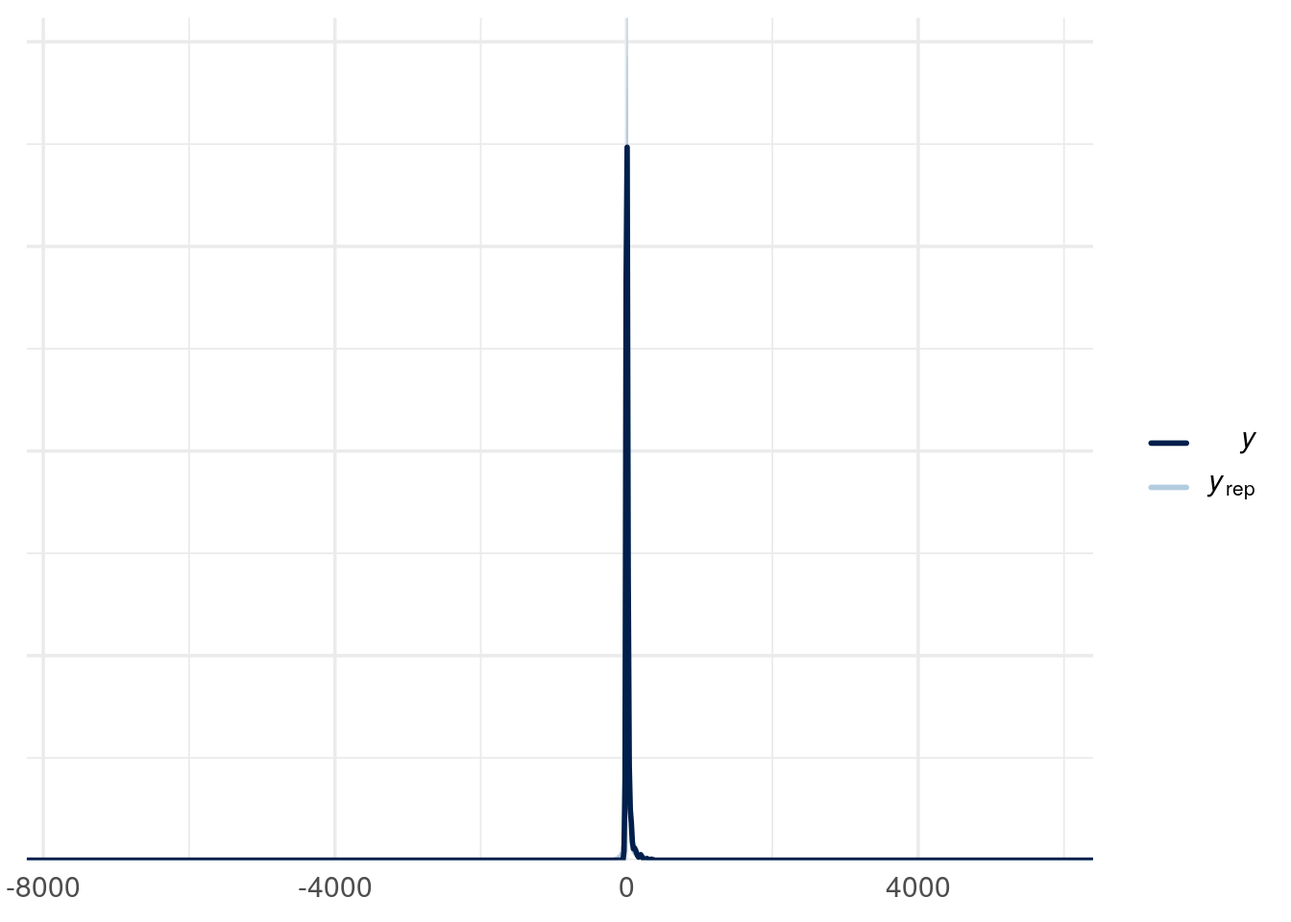
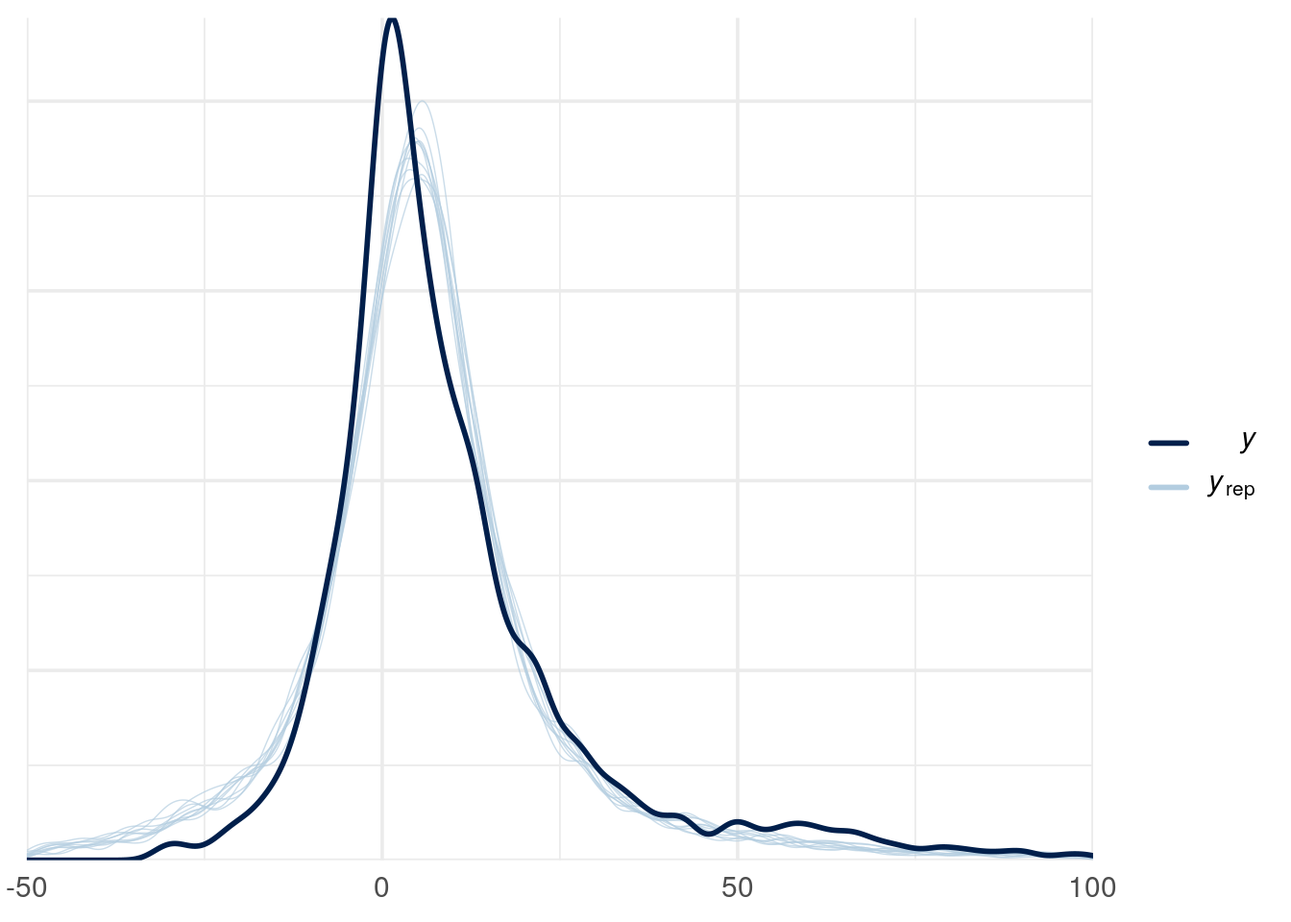
Main file fixes

Changed region(s): [[0.0, 0.0, 0.8438, 0.9688], [0.8438, 0.9375, 0.875, 0.9688]]

diff --git a/main.html b/main.html
@@ -130,17 +130,18 @@ code span.wa { color: #60a0b0; font-weight: bold; font-style: italic; } /* Warni
 </div>
 <p>Priors</p>
 <div class="cell">
-<div class="sourceCode cell-code" id="cb2"><pre class="sourceCode r code-with-copy"><code class="sourceCode r"><span id="cb2-1"><a href="#cb2-1" aria-hidden="true" tabindex="-1"></a>priors_pooled <span class="ot">=</span> <span class="fu">c</span>(</span>
+<div class="sourceCode cell-code" id="cb2"><pre class="sourceCode r code-with-copy"><code class="sourceCode r"><span id="cb2-1"><a href="#cb2-1" aria-hidden="true" tabindex="-1"></a>priors_pooled <span class="ot">&lt;-</span> <span class="fu">c</span>(</span>
 <span id="cb2-2"><a href="#cb2-2" aria-hidden="true" tabindex="-1"></a>  <span class="fu">set_prior</span>(<span class="st">"normal(0, 10)"</span>, <span class="at">class =</span> <span class="st">"b"</span>),</span>
 <span id="cb2-3"><a href="#cb2-3" aria-hidden="true" tabindex="-1"></a>  <span class="fu">set_prior</span>(<span class="st">"normal(0, 5)"</span>, <span class="at">class =</span> <span class="st">"Intercept"</span>),</span>
 <span id="cb2-4"><a href="#cb2-4" aria-hidden="true" tabindex="-1"></a>  <span class="fu">set_prior</span>(<span class="st">"gamma(2, 0.1)"</span>, <span class="at">class =</span> <span class="st">"nu"</span>) <span class="co"># Correct prior for degrees of freedom in Student's t</span></span>
 <span id="cb2-5"><a href="#cb2-5" aria-hidden="true" tabindex="-1"></a>)</span>
-<span id="cb2-6"><a href="#cb2-6" aria-hidden="true" tabindex="-1"></a>priors_hierarchical <span class="ot">=</span>  <span class="fu">c</span>(</span>
-<span id="cb2-7"><a href="#cb2-7" aria-hidden="true" tabindex="-1"></a>  <span class="fu">set_prior</span>(<span class="st">"normal(0, 10)"</span>, <span class="at">class =</span> <span class="st">"b"</span>),</span>
-<span id="cb2-8"><a href="#cb2-8" aria-hidden="true" tabindex="-1"></a>  <span class="fu">set_prior</span>(<span class="st">"normal(0, 5)"</span>, <span class="at">class =</span> <span class="st">"Intercept"</span>),</span>
-<span id="cb2-9"><a href="#cb2-9" aria-hidden="true" tabindex="-1"></a>  <span class="fu">set_prior</span>(<span class="st">"gamma(2, 0.1)"</span>, <span class="at">class =</span> <span class="st">"nu"</span>), <span class="co"># Correct prior for degrees of freedom in Student's t</span></span>
-<span id="cb2-10"><a href="#cb2-10" aria-hidden="true" tabindex="-1"></a>  <span class="fu">set_prior</span>(<span class="st">"lkj(2)"</span>, <span class="at">class =</span> <span class="st">"cor"</span>) <span class="co"># LKJ prior for the correlation matrix of the group-level effects</span></span>
-<span id="cb2-11"><a href="#cb2-11" aria-hidden="true" tabindex="-1"></a>)</span></code><button title="Copy to Clipboard" class="code-copy-button"><i class="bi"></i></button></pre></div>
+<span id="cb2-6"><a href="#cb2-6" aria-hidden="true" tabindex="-1"></a></span>
+<span id="cb2-7"><a href="#cb2-7" aria-hidden="true" tabindex="-1"></a>priors_hierarchical <span class="ot">&lt;-</span>  <span class="fu">c</span>(</span>
+<span id="cb2-8"><a href="#cb2-8" aria-hidden="true" tabindex="-1"></a>  <span class="fu">set_prior</span>(<span class="st">"normal(0, 10)"</span>, <span class="at">class =</span> <span class="st">"b"</span>),</span>
+<span id="cb2-9"><a href="#cb2-9" aria-hidden="true" tabindex="-1"></a>  <span class="fu">set_prior</span>(<span class="st">"normal(0, 5)"</span>, <span class="at">class =</span> <span class="st">"Intercept"</span>),</span>
+<span id="cb2-10"><a href="#cb2-10" aria-hidden="true" tabindex="-1"></a>  <span class="fu">set_prior</span>(<span class="st">"gamma(2, 0.1)"</span>, <span class="at">class =</span> <span class="st">"nu"</span>), <span class="co"># Correct prior for degrees of freedom in Student's t</span></span>
+<span id="cb2-11"><a href="#cb2-11" aria-hidden="true" tabindex="-1"></a>  <span class="fu">set_prior</span>(<span class="st">"lkj(2)"</span>, <span class="at">class =</span> <span class="st">"cor"</span>) <span class="co"># LKJ prior for the correlation matrix of the group-level effects</span></span>
+<span id="cb2-12"><a href="#cb2-12" aria-hidden="true" tabindex="-1"></a>)</span></code><button title="Copy to Clipboard" class="code-copy-button"><i class="bi"></i></button></pre></div>
 </div>
 <p>Pooled model</p>
 <div class="cell">
@@ -152,7 +153,7 @@ code span.wa { color: #60a0b0; font-weight: bold; font-style: italic; } /* Warni
 <span id="cb3-6"><a href="#cb3-6" aria-hidden="true" tabindex="-1"></a>  <span class="co"># This specifies the observation model family</span></span>
 <span id="cb3-7"><a href="#cb3-7" aria-hidden="true" tabindex="-1"></a>  <span class="at">family =</span> student,</span>
 <span id="cb3-8"><a href="#cb3-8" aria-hidden="true" tabindex="-1"></a>  <span class="co"># This passes the priors specified above to brms</span></span>
-<span id="cb3-9"><a href="#cb3-9" aria-hidden="true" tabindex="-1"></a>  <span class="at">prior =</span> priors_pooled,</span>
+<span id="cb3-9"><a href="#cb3-9" aria-hidden="true" tabindex="-1"></a>  <span class="co">#prior = priors_pooled,</span></span>
 <span id="cb3-10"><a href="#cb3-10" aria-hidden="true" tabindex="-1"></a>  <span class="co"># This causes brms to cache the results</span></span>
 <span id="cb3-11"><a href="#cb3-11" aria-hidden="true" tabindex="-1"></a>  <span class="at">file =</span> <span class="st">"models/pooled"</span></span>
 <span id="cb3-12"><a href="#cb3-12" aria-hidden="true" tabindex="-1"></a>)</span>
@@ -301,74 +302,80 @@ scale reduction factor on split chains (at convergence, Rhat = 1).</code></pre>
 </div>
 <p>Posterior predictive checks</p>
 <div class="cell">
-<div class="sourceCode cell-code" id="cb13"><pre class="sourceCode r code-with-copy"><code class="sourceCode r"><span id="cb13-1"><a href="#cb13-1" aria-hidden="true" tabindex="-1"></a><span class="fu">pp_check</span>(pooled_model)</span></code><button title="Copy to Clipboard" class="code-copy-button"><i class="bi"></i></button></pre></div>
+<div class="sourceCode cell-code" id="cb13"><pre class="sourceCode r code-with-copy"><code class="sourceCode r"><span id="cb13-1"><a href="#cb13-1" aria-hidden="true" tabindex="-1"></a><span class="fu">pp_check</span>(pooled_model) <span class="sc">+</span> <span class="fu">xlim</span>(<span class="sc">-</span><span class="dv">50</span>, <span class="dv">100</span>)</span></code><button title="Copy to Clipboard" class="code-copy-button"><i class="bi"></i></button></pre></div>
 <div class="cell-output cell-output-stderr">
 <pre><code>Using 10 posterior draws for ppc type 'dens_overlay' by default.</code></pre>
+</div>
+<div class="cell-output cell-output-stderr">
+<pre><code>Warning: Removed 2022 rows containing non-finite values (`stat_density()`).</code></pre>
+</div>
+<div class="cell-output cell-output-stderr">
+<pre><code>Warning: Removed 148 rows containing non-finite values (`stat_density()`).</code></pre>
 </div>
 <div class="cell-output-display">
 <p><img src="main_files/figure-html/unnamed-chunk-6-1.png" class="img-fluid" width="672"></p>
 </div>
-<div class="sourceCode cell-code" id="cb15"><pre class="sourceCode r code-with-copy"><code class="sourceCode r"><span id="cb15-1"><a href="#cb15-1" aria-hidden="true" tabindex="-1"></a><span class="fu">pp_check</span>(hierarchical_model)</span></code><button title="Copy to Clipboard" class="code-copy-button"><i class="bi"></i></button></pre></div>
+<div class="sourceCode cell-code" id="cb17"><pre class="sourceCode r code-with-copy"><code class="sourceCode r"><span id="cb17-1"><a href="#cb17-1" aria-hidden="true" tabindex="-1"></a><span class="fu">pp_check</span>(hierarchical_model) <span class="sc">+</span> <span class="fu">xlim</span>(<span class="sc">-</span><span class="dv">50</span>, <span class="dv">100</span>)</span></code><button title="Copy to Clipboard" class="code-copy-button"><i class="bi"></i></button></pre></div>
 <div class="cell-output cell-output-stderr">
 <pre><code>Using 10 posterior draws for ppc type 'dens_overlay' by default.</code></pre>
+</div>
+<div class="cell-output cell-output-stderr">
+<pre><code>Warning: Removed 1951 rows containing non-finite values (`stat_density()`).
+Removed 148 rows containing non-finite values (`stat_density()`).</code></pre>
 </div>
 <div class="cell-output-display">
 <p><img src="main_files/figure-html/unnamed-chunk-6-2.png" class="img-fluid" width="672"></p>
 </div>
 </div>
-<div class="cell">
-<div class="sourceCode cell-code" id="cb17"><pre class="sourceCode r code-with-copy"><code class="sourceCode r"><span id="cb17-1"><a href="#cb17-1" aria-hidden="true" tabindex="-1"></a><span class="co">#pp_check(pooled_model, type="intervals_grouped", group="country")</span></span>
-<span id="cb17-2"><a href="#cb17-2" aria-hidden="true" tabindex="-1"></a><span class="co">#pp_check(hierarchical_model, type="intervals_grouped", group="country")</span></span></code><button title="Copy to Clipboard" class="code-copy-button"><i class="bi"></i></button></pre></div>
-</div>
 <p>Predictive performance assessment</p>
 <p>Sensitivity analysis</p>
 <div class="cell">
-<div class="sourceCode cell-code" id="cb18"><pre class="sourceCode r code-with-copy"><code class="sourceCode r"><span id="cb18-1"><a href="#cb18-1" aria-hidden="true" tabindex="-1"></a><span class="co"># Stronger priors for the pooled model</span></span>
-<span id="cb18-2"><a href="#cb18-2" aria-hidden="true" tabindex="-1"></a>priors_pooled_2 <span class="ot">&lt;-</span> <span class="fu">c</span>(</span>
-<span id="cb18-3"><a href="#cb18-3" aria-hidden="true" tabindex="-1"></a>  <span class="fu">set_prior</span>(<span class="st">"normal(0, 2.5)"</span>, <span class="at">class =</span> <span class="st">"b"</span>),</span>
-<span id="cb18-4"><a href="#cb18-4" aria-hidden="true" tabindex="-1"></a>  <span class="fu">set_prior</span>(<span class="st">"normal(0, 1)"</span>, <span class="at">class =</span> <span class="st">"Intercept"</span>),</span>
-<span id="cb18-5"><a href="#cb18-5" aria-hidden="true" tabindex="-1"></a>  <span class="fu">set_prior</span>(<span class="st">"gamma(2, 0.1)"</span>, <span class="at">class =</span> <span class="st">"nu"</span>) <span class="co"># Assuming degrees of freedom to allow some robustness to outliers</span></span>
-<span id="cb18-6"><a href="#cb18-6" aria-hidden="true" tabindex="-1"></a>)</span>
-<span id="cb18-7"><a href="#cb18-7" aria-hidden="true" tabindex="-1"></a></span>
-<span id="cb18-8"><a href="#cb18-8" aria-hidden="true" tabindex="-1"></a><span class="co"># Stronger priors for the hierarchical model</span></span>
-<span id="cb18-9"><a href="#cb18-9" aria-hidden="true" tabindex="-1"></a>priors_hierarchical_2 <span class="ot">&lt;-</span> <span class="fu">c</span>(</span>
-<span id="cb18-10"><a href="#cb18-10" aria-hidden="true" tabindex="-1"></a>  <span class="fu">set_prior</span>(<span class="st">"normal(0, 2.5)"</span>, <span class="at">class =</span> <span class="st">"b"</span>),</span>
-<span id="cb18-11"><a href="#cb18-11" aria-hidden="true" tabindex="-1"></a>  <span class="fu">set_prior</span>(<span class="st">"normal(0, 1)"</span>, <span class="at">class =</span> <span class="st">"Intercept"</span>),</span>
-<span id="cb18-12"><a href="#cb18-12" aria-hidden="true" tabindex="-1"></a>  <span class="fu">set_prior</span>(<span class="st">"gamma(2, 0.1)"</span>, <span class="at">class =</span> <span class="st">"nu"</span>),</span>
-<span id="cb18-13"><a href="#cb18-13" aria-hidden="true" tabindex="-1"></a>  <span class="fu">set_prior</span>(<span class="st">"lkj(2)"</span>, <span class="at">class =</span> <span class="st">"cor"</span>), <span class="co"># LKJ prior for the correlation matrix of the group-level effects</span></span>
-<span id="cb18-14"><a href="#cb18-14" aria-hidden="true" tabindex="-1"></a>  <span class="fu">set_prior</span>(<span class="st">"normal(0, 2.5)"</span>, <span class="at">class =</span> <span class="st">"sd"</span>), <span class="co"># Stronger prior for the standard deviation of group-level effects</span></span>
-<span id="cb18-15"><a href="#cb18-15" aria-hidden="true" tabindex="-1"></a>  <span class="fu">set_prior</span>(<span class="st">"normal(0, 1)"</span>, <span class="at">class =</span> <span class="st">"sd"</span>, <span class="at">group =</span> <span class="st">"country"</span>) <span class="co"># Strong prior for the random intercepts standard deviation for country</span></span>
-<span id="cb18-16"><a href="#cb18-16" aria-hidden="true" tabindex="-1"></a>)</span>
-<span id="cb18-17"><a href="#cb18-17" aria-hidden="true" tabindex="-1"></a></span>
-<span id="cb18-18"><a href="#cb18-18" aria-hidden="true" tabindex="-1"></a></span>
-<span id="cb18-19"><a href="#cb18-19" aria-hidden="true" tabindex="-1"></a>pooled_model_2 <span class="ot">&lt;-</span> brms<span class="sc">::</span><span class="fu">brm</span>(</span>
-<span id="cb18-20"><a href="#cb18-20" aria-hidden="true" tabindex="-1"></a>  <span class="co"># This specifies the formula</span></span>
-<span id="cb18-21"><a href="#cb18-21" aria-hidden="true" tabindex="-1"></a>  Inflation <span class="sc">~</span> Close,</span>
-<span id="cb18-22"><a href="#cb18-22" aria-hidden="true" tabindex="-1"></a>  <span class="co"># This specifies the dataset</span></span>
-<span id="cb18-23"><a href="#cb18-23" aria-hidden="true" tabindex="-1"></a>  <span class="at">data =</span> inflation_data,</span>
-<span id="cb18-24"><a href="#cb18-24" aria-hidden="true" tabindex="-1"></a>  <span class="co"># This specifies the observation model family</span></span>
-<span id="cb18-25"><a href="#cb18-25" aria-hidden="true" tabindex="-1"></a>  <span class="at">family =</span> student,</span>
-<span id="cb18-26"><a href="#cb18-26" aria-hidden="true" tabindex="-1"></a>  <span class="co"># This passes the priors specified above to brms</span></span>
-<span id="cb18-27"><a href="#cb18-27" aria-hidden="true" tabindex="-1"></a>  <span class="at">prior =</span> priors_pooled_2,</span>
-<span id="cb18-28"><a href="#cb18-28" aria-hidden="true" tabindex="-1"></a>  <span class="co"># This causes brms to cache the results</span></span>
-<span id="cb18-29"><a href="#cb18-29" aria-hidden="true" tabindex="-1"></a>  <span class="at">file =</span> <span class="st">"models/pooled_2"</span></span>
-<span id="cb18-30"><a href="#cb18-30" aria-hidden="true" tabindex="-1"></a>)</span>
-<span id="cb18-31"><a href="#cb18-31" aria-hidden="true" tabindex="-1"></a></span>
-<span id="cb18-32"><a href="#cb18-32" aria-hidden="true" tabindex="-1"></a>hierarchical_model_2 <span class="ot">&lt;-</span> brms<span class="sc">::</span><span class="fu">brm</span>(</span>
-<span id="cb18-33"><a href="#cb18-33" aria-hidden="true" tabindex="-1"></a>  <span class="co"># This specifies the formula</span></span>
-<span id="cb18-34"><a href="#cb18-34" aria-hidden="true" tabindex="-1"></a>  Inflation <span class="sc">~</span> Close <span class="sc">+</span> (<span class="dv">1</span> <span class="sc">+</span> Close <span class="sc">|</span> country),</span>
-<span id="cb18-35"><a href="#cb18-35" aria-hidden="true" tabindex="-1"></a>  <span class="co"># This specifies the dataset</span></span>
-<span id="cb18-36"><a href="#cb18-36" aria-hidden="true" tabindex="-1"></a>  <span class="at">data =</span> inflation_data,</span>
-<span id="cb18-37"><a href="#cb18-37" aria-hidden="true" tabindex="-1"></a>  <span class="co"># This specifies the observation model family</span></span>
-<span id="cb18-38"><a href="#cb18-38" aria-hidden="true" tabindex="-1"></a>  <span class="at">family =</span> student,</span>
-<span id="cb18-39"><a href="#cb18-39" aria-hidden="true" tabindex="-1"></a>  <span class="co"># This passes the priors specified above to brms</span></span>
-<span id="cb18-40"><a href="#cb18-40" aria-hidden="true" tabindex="-1"></a>  <span class="at">prior =</span> priors_hierarchical_2,</span>
-<span id="cb18-41"><a href="#cb18-41" aria-hidden="true" tabindex="-1"></a>  <span class="co"># This causes brms to cache the results</span></span>
-<span id="cb18-42"><a href="#cb18-42" aria-hidden="true" tabindex="-1"></a>  <span class="at">file =</span> <span class="st">"models/hierarchical_2"</span></span>
-<span id="cb18-43"><a href="#cb18-43" aria-hidden="true" tabindex="-1"></a>)</span></code><button title="Copy to Clipboard" class="code-copy-button"><i class="bi"></i></button></pre></div>
+<div class="sourceCode cell-code" id="cb20"><pre class="sourceCode r code-with-copy"><code class="sourceCode r"><span id="cb20-1"><a href="#cb20-1" aria-hidden="true" tabindex="-1"></a><span class="co"># Stronger priors for the pooled model</span></span>
+<span id="cb20-2"><a href="#cb20-2" aria-hidden="true" tabindex="-1"></a>priors_pooled_2 <span class="ot">&lt;-</span> <span class="fu">c</span>(</span>
+<span id="cb20-3"><a href="#cb20-3" aria-hidden="true" tabindex="-1"></a>  <span class="fu">set_prior</span>(<span class="st">"normal(0, 2.5)"</span>, <span class="at">class =</span> <span class="st">"b"</span>),</span>
+<span id="cb20-4"><a href="#cb20-4" aria-hidden="true" tabindex="-1"></a>  <span class="fu">set_prior</span>(<span class="st">"normal(0, 1)"</span>, <span class="at">class =</span> <span class="st">"Intercept"</span>),</span>
+<span id="cb20-5"><a href="#cb20-5" aria-hidden="true" tabindex="-1"></a>  <span class="fu">set_prior</span>(<span class="st">"gamma(2, 0.1)"</span>, <span class="at">class =</span> <span class="st">"nu"</span>) <span class="co"># Assuming degrees of freedom to allow some robustness to outliers</span></span>
+<span id="cb20-6"><a href="#cb20-6" aria-hidden="true" tabindex="-1"></a>)</span>
+<span id="cb20-7"><a href="#cb20-7" aria-hidden="true" tabindex="-1"></a></span>
+<span id="cb20-8"><a href="#cb20-8" aria-hidden="true" tabindex="-1"></a><span class="co"># Stronger priors for the hierarchical model</span></span>
+<span id="cb20-9"><a href="#cb20-9" aria-hidden="true" tabindex="-1"></a>priors_hierarchical_2 <span class="ot">&lt;-</span> <span class="fu">c</span>(</span>
+<span id="cb20-10"><a href="#cb20-10" aria-hidden="true" tabindex="-1"></a>  <span class="fu">set_prior</span>(<span class="st">"normal(0, 2.5)"</span>, <span class="at">class =</span> <span class="st">"b"</span>),</span>
+<span id="cb20-11"><a href="#cb20-11" aria-hidden="true" tabindex="-1"></a>  <span class="fu">set_prior</span>(<span class="st">"normal(0, 1)"</span>, <span class="at">class =</span> <span class="st">"Intercept"</span>),</span>
+<span id="cb20-12"><a href="#cb20-12" aria-hidden="true" tabindex="-1"></a>  <span class="fu">set_prior</span>(<span class="st">"gamma(2, 0.1)"</span>, <span class="at">class =</span> <span class="st">"nu"</span>),</span>
+<span id="cb20-13"><a href="#cb20-13" aria-hidden="true" tabindex="-1"></a>  <span class="fu">set_prior</span>(<span class="st">"lkj(2)"</span>, <span class="at">class =</span> <span class="st">"cor"</span>), <span class="co"># LKJ prior for the correlation matrix of the group-level effects</span></span>
+<span id="cb20-14"><a href="#cb20-14" aria-hidden="true" tabindex="-1"></a>  <span class="fu">set_prior</span>(<span class="st">"normal(0, 2.5)"</span>, <span class="at">class =</span> <span class="st">"sd"</span>), <span class="co"># Stronger prior for the standard deviation of group-level effects</span></span>
+<span id="cb20-15"><a href="#cb20-15" aria-hidden="true" tabindex="-1"></a>  <span class="fu">set_prior</span>(<span class="st">"normal(0, 1)"</span>, <span class="at">class =</span> <span class="st">"sd"</span>, <span class="at">group =</span> <span class="st">"country"</span>) <span class="co"># Strong prior for the random intercepts standard deviation for country</span></span>
+<span id="cb20-16"><a href="#cb20-16" aria-hidden="true" tabindex="-1"></a>)</span>
+<span id="cb20-17"><a href="#cb20-17" aria-hidden="true" tabindex="-1"></a></span>
+<span id="cb20-18"><a href="#cb20-18" aria-hidden="true" tabindex="-1"></a></span>
+<span id="cb20-19"><a href="#cb20-19" aria-hidden="true" tabindex="-1"></a>pooled_model_2 <span class="ot">&lt;-</span> brms<span class="sc">::</span><span class="fu">brm</span>(</span>
+<span id="cb20-20"><a href="#cb20-20" aria-hidden="true" tabindex="-1"></a>  <span class="co"># This specifies the formula</span></span>
+<span id="cb20-21"><a href="#cb20-21" aria-hidden="true" tabindex="-1"></a>  Inflation <span class="sc">~</span> Close,</span>
+<span id="cb20-22"><a href="#cb20-22" aria-hidden="true" tabindex="-1"></a>  <span class="co"># This specifies the dataset</span></span>
+<span id="cb20-23"><a href="#cb20-23" aria-hidden="true" tabindex="-1"></a>  <span class="at">data =</span> inflation_data,</span>
+<span id="cb20-24"><a href="#cb20-24" aria-hidden="true" tabindex="-1"></a>  <span class="co"># This specifies the observation model family</span></span>
+<span id="cb20-25"><a href="#cb20-25" aria-hidden="true" tabindex="-1"></a>  <span class="at">family =</span> student,</span>
+<span id="cb20-26"><a href="#cb20-26" aria-hidden="true" tabindex="-1"></a>  <span class="co"># This passes the priors specified above to brms</span></span>
+<span id="cb20-27"><a href="#cb20-27" aria-hidden="true" tabindex="-1"></a>  <span class="at">prior =</span> priors_pooled_2,</span>
+<span id="cb20-28"><a href="#cb20-28" aria-hidden="true" tabindex="-1"></a>  <span class="co"># This causes brms to cache the results</span></span>
+<span id="cb20-29"><a href="#cb20-29" aria-hidden="true" tabindex="-1"></a>  <span class="at">file =</span> <span class="st">"models/pooled_2"</span></span>
+<span id="cb20-30"><a href="#cb20-30" aria-hidden="true" tabindex="-1"></a>)</span>
+<span id="cb20-31"><a href="#cb20-31" aria-hidden="true" tabindex="-1"></a></span>
+<span id="cb20-32"><a href="#cb20-32" aria-hidden="true" tabindex="-1"></a>hierarchical_model_2 <span class="ot">&lt;-</span> brms<span class="sc">::</span><span class="fu">brm</span>(</span>
+<span id="cb20-33"><a href="#cb20-33" aria-hidden="true" tabindex="-1"></a>  <span class="co"># This specifies the formula</span></span>
+<span id="cb20-34"><a href="#cb20-34" aria-hidden="true" tabindex="-1"></a>  Inflation <span class="sc">~</span> Close <span class="sc">+</span> (<span class="dv">1</span> <span class="sc">+</span> Close <span class="sc">|</span> country),</span>
+<span id="cb20-35"><a href="#cb20-35" aria-hidden="true" tabindex="-1"></a>  <span class="co"># This specifies the dataset</span></span>
+<span id="cb20-36"><a href="#cb20-36" aria-hidden="true" tabindex="-1"></a>  <span class="at">data =</span> inflation_data,</span>
+<span id="cb20-37"><a href="#cb20-37" aria-hidden="true" tabindex="-1"></a>  <span class="co"># This specifies the observation model family</span></span>
+<span id="cb20-38"><a href="#cb20-38" aria-hidden="true" tabindex="-1"></a>  <span class="at">family =</span> student,</span>
+<span id="cb20-39"><a href="#cb20-39" aria-hidden="true" tabindex="-1"></a>  <span class="co"># This passes the priors specified above to brms</span></span>
+<span id="cb20-40"><a href="#cb20-40" aria-hidden="true" tabindex="-1"></a>  <span class="at">prior =</span> priors_hierarchical_2,</span>
+<span id="cb20-41"><a href="#cb20-41" aria-hidden="true" tabindex="-1"></a>  <span class="co"># This causes brms to cache the results</span></span>
+<span id="cb20-42"><a href="#cb20-42" aria-hidden="true" tabindex="-1"></a>  <span class="at">file =</span> <span class="st">"models/hierarchical_2"</span></span>
+<span id="cb20-43"><a href="#cb20-43" aria-hidden="true" tabindex="-1"></a>)</span></code><button title="Copy to Clipboard" class="code-copy-button"><i class="bi"></i></button></pre></div>
 </div>
 <div class="cell">
-<div class="sourceCode cell-code" id="cb19"><pre class="sourceCode r code-with-copy"><code class="sourceCode r"><span id="cb19-1"><a href="#cb19-1" aria-hidden="true" tabindex="-1"></a>pooled_model_2</span></code><button title="Copy to Clipboard" class="code-copy-button"><i class="bi"></i></button></pre></div>
+<div class="sourceCode cell-code" id="cb21"><pre class="sourceCode r code-with-copy"><code class="sourceCode r"><span id="cb21-1"><a href="#cb21-1" aria-hidden="true" tabindex="-1"></a>pooled_model_2</span></code><button title="Copy to Clipboard" class="code-copy-button"><i class="bi"></i></button></pre></div>
 <div class="cell-output cell-output-stdout">
 <pre><code> Family: student 
   Links: mu = identity; sigma = identity; nu = identity 
@@ -391,7 +398,7 @@ Draws were sampled using sampling(NUTS). For each parameter, Bulk_ESS
 and Tail_ESS are effective sample size measures, and Rhat is the potential
 scale reduction factor on split chains (at convergence, Rhat = 1).</code></pre>
 </div>
-<div class="sourceCode cell-code" id="cb21"><pre class="sourceCode r code-with-copy"><code class="sourceCode r"><span id="cb21-1"><a href="#cb21-1" aria-hidden="true" tabindex="-1"></a>hierarchical_model_2</span></code><button title="Copy to Clipboard" class="code-copy-button"><i class="bi"></i></button></pre></div>
+<div class="sourceCode cell-code" id="cb23"><pre class="sourceCode r code-with-copy"><code class="sourceCode r"><span id="cb23-1"><a href="#cb23-1" aria-hidden="true" tabindex="-1"></a>hierarchical_model_2</span></code><button title="Copy to Clipboard" class="code-copy-button"><i class="bi"></i></button></pre></div>
 <div class="cell-output cell-output-stdout">
 <pre><code> Family: student 
   Links: mu = identity; sigma = identity; nu = identity 
@@ -425,7 +432,7 @@ Draws were sampled using sampling(NUTS). For each parameter, Bulk_ESS
 and Tail_ESS are effective sample size measures, and Rhat is the potential
 scale reduction factor on split chains (at convergence, Rhat = 1).</code></pre>
 </div>
-<div class="sourceCode cell-code" id="cb23"><pre class="sourceCode r code-with-copy"><code class="sourceCode r"><span id="cb23-1"><a href="#cb23-1" aria-hidden="true" tabindex="-1"></a><span class="fu">summary</span>(pooled_model_2)</span></code><button title="Copy to Clipboard" class="code-copy-button"><i class="bi"></i></button></pre></div>
+<div class="sourceCode cell-code" id="cb25"><pre class="sourceCode r code-with-copy"><code class="sourceCode r"><span id="cb25-1"><a href="#cb25-1" aria-hidden="true" tabindex="-1"></a><span class="fu">summary</span>(pooled_model_2)</span></code><button title="Copy to Clipboard" class="code-copy-button"><i class="bi"></i></button></pre></div>
 <div class="cell-output cell-output-stdout">
 <pre><code> Family: student 
   Links: mu = identity; sigma = identity; nu = identity 
@@ -448,7 +455,7 @@ Draws were sampled using sampling(NUTS). For each parameter, Bulk_ESS
 and Tail_ESS are effective sample size measures, and Rhat is the potential
 scale reduction factor on split chains (at convergence, Rhat = 1).</code></pre>
 </div>
-<div class="sourceCode cell-code" id="cb25"><pre class="sourceCode r code-with-copy"><code class="sourceCode r"><span id="cb25-1"><a href="#cb25-1" aria-hidden="true" tabindex="-1"></a><span class="fu">summary</span>(hierarchical_model_2)</span></code><button title="Copy to Clipboard" class="code-copy-button"><i class="bi"></i></button></pre></div>
+<div class="sourceCode cell-code" id="cb27"><pre class="sourceCode r code-with-copy"><code class="sourceCode r"><span id="cb27-1"><a href="#cb27-1" aria-hidden="true" tabindex="-1"></a><span class="fu">summary</span>(hierarchical_model_2)</span></code><button title="Copy to Clipboard" class="code-copy-button"><i class="bi"></i></button></pre></div>
 <div class="cell-output cell-output-stdout">
 <pre><code> Family: student 
   Links: mu = identity; sigma = identity; nu = identity 
@@ -482,30 +489,38 @@ Draws were sampled using sampling(NUTS). For each parameter, Bulk_ESS
 and Tail_ESS are effective sample size measures, and Rhat is the potential
 scale reduction factor on split chains (at convergence, Rhat = 1).</code></pre>
 </div>
-<div class="sourceCode cell-code" id="cb27"><pre class="sourceCode r code-with-copy"><code class="sourceCode r"><span id="cb27-1"><a href="#cb27-1" aria-hidden="true" tabindex="-1"></a><span class="fu">pp_check</span>(pooled_model_2)</span></code><button title="Copy to Clipboard" class="code-copy-button"><i class="bi"></i></button></pre></div>
+<div class="sourceCode cell-code" id="cb29"><pre class="sourceCode r code-with-copy"><code class="sourceCode r"><span id="cb29-1"><a href="#cb29-1" aria-hidden="true" tabindex="-1"></a><span class="fu">pp_check</span>(pooled_model_2) <span class="sc">+</span> <span class="fu">xlim</span>(<span class="sc">-</span><span class="dv">50</span>, <span class="dv">100</span>)</span></code><button title="Copy to Clipboard" class="code-copy-button"><i class="bi"></i></button></pre></div>
 <div class="cell-output cell-output-stderr">
 <pre><code>Using 10 posterior draws for ppc type 'dens_overlay' by default.</code></pre>
 </div>
-<div class="cell-output-display">
-<p><img src="main_files/figure-html/unnamed-chunk-10-1.png" class="img-fluid" width="672"></p>
+<div class="cell-output cell-output-stderr">
+<pre><code>Warning: Removed 2003 rows containing non-finite values (`stat_density()`).</code></pre>
 </div>
-<div class="sourceCode cell-code" id="cb29"><pre class="sourceCode r code-with-copy"><code class="sourceCode r"><span id="cb29-1"><a href="#cb29-1" aria-hidden="true" tabindex="-1"></a><span class="fu">pp_check</span>(hierarchical_model_2)</span></code><button title="Copy to Clipboard" class="code-copy-button"><i class="bi"></i></button></pre></div>
+<div class="cell-output cell-output-stderr">
+<pre><code>Warning: Removed 148 rows containing non-finite values (`stat_density()`).</code></pre>
+</div>
+<div class="cell-output-display">
+<p><img src="main_files/figure-html/unnamed-chunk-9-1.png" class="img-fluid" width="672"></p>
+</div>
+<div class="sourceCode cell-code" id="cb33"><pre class="sourceCode r code-with-copy"><code class="sourceCode r"><span id="cb33-1"><a href="#cb33-1" aria-hidden="true" tabindex="-1"></a><span class="fu">pp_check</span>(hierarchical_model_2) <span class="sc">+</span> <span class="fu">xlim</span>(<span class="sc">-</span><span class="dv">50</span>, <span class="dv">100</span>)</span></code><button title="Copy to Clipboard" class="code-copy-button"><i class="bi"></i></button></pre></div>
 <div class="cell-output cell-output-stderr">
 <pre><code>Using 10 posterior draws for ppc type 'dens_overlay' by default.</code></pre>
 </div>
-<div class="cell-output-display">
-<p><img src="main_files/figure-html/unnamed-chunk-10-2.png" class="img-fluid" width="672"></p>
+<div class="cell-output cell-output-stderr">
+<pre><code>Warning: Removed 1764 rows containing non-finite values (`stat_density()`).
+Removed 148 rows containing non-finite values (`stat_density()`).</code></pre>
 </div>
-<div class="sourceCode cell-code" id="cb31"><pre class="sourceCode r code-with-copy"><code class="sourceCode r"><span id="cb31-1"><a href="#cb31-1" aria-hidden="true" tabindex="-1"></a><span class="co">#pp_check(pooled_model, type="intervals_grouped", group="country")</span></span>
-<span id="cb31-2"><a href="#cb31-2" aria-hidden="true" tabindex="-1"></a><span class="co">#pp_check(hierarchical_model, type="intervals_grouped", group="country")</span></span></code><button title="Copy to Clipboard" class="code-copy-button"><i class="bi"></i></button></pre></div>
+<div class="cell-output-display">
+<p><img src="main_files/figure-html/unnamed-chunk-9-2.png" class="img-fluid" width="672"></p>
+</div>
 </div>
 <p>Model comparison (LOO-CV)</p>
 <div class="cell">
-<div class="sourceCode cell-code" id="cb32"><pre class="sourceCode r code-with-copy"><code class="sourceCode r"><span id="cb32-1"><a href="#cb32-1" aria-hidden="true" tabindex="-1"></a>loo_p <span class="ot">&lt;-</span> <span class="fu">loo</span>(pooled_model)</span>
-<span id="cb32-2"><a href="#cb32-2" aria-hidden="true" tabindex="-1"></a>loo_h <span class="ot">&lt;-</span> <span class="fu">loo</span>(hierarchical_model)</span>
-<span id="cb32-3"><a href="#cb32-3" aria-hidden="true" tabindex="-1"></a>loo_p2 <span class="ot">&lt;-</span> <span class="fu">loo</span>(pooled_model_2)</span>
-<span id="cb32-4"><a href="#cb32-4" aria-hidden="true" tabindex="-1"></a>loo_h2 <span class="ot">&lt;-</span> <span class="fu">loo</span>(hierarchical_model_2)</span>
-<span id="cb32-5"><a href="#cb32-5" aria-hidden="true" tabindex="-1"></a>loo_p</span></code><button title="Copy to Clipboard" class="code-copy-button"><i class="bi"></i></button></pre></div>
+<div class="sourceCode cell-code" id="cb36"><pre class="sourceCode r code-with-copy"><code class="sourceCode r"><span id="cb36-1"><a href="#cb36-1" aria-hidden="true" tabindex="-1"></a>loo_p <span class="ot">&lt;-</span> <span class="fu">loo</span>(pooled_model)</span>
+<span id="cb36-2"><a href="#cb36-2" aria-hidden="true" tabindex="-1"></a>loo_h <span class="ot">&lt;-</span> <span class="fu">loo</span>(hierarchical_model)</span>
+<span id="cb36-3"><a href="#cb36-3" aria-hidden="true" tabindex="-1"></a>loo_p2 <span class="ot">&lt;-</span> <span class="fu">loo</span>(pooled_model_2)</span>
+<span id="cb36-4"><a href="#cb36-4" aria-hidden="true" tabindex="-1"></a>loo_h2 <span class="ot">&lt;-</span> <span class="fu">loo</span>(hierarchical_model_2)</span>
+<span id="cb36-5"><a href="#cb36-5" aria-hidden="true" tabindex="-1"></a>loo_p</span></code><button title="Copy to Clipboard" class="code-copy-button"><i class="bi"></i></button></pre></div>
 <div class="cell-output cell-output-stdout">
 <pre><code>
 Computed from 4000 by 4459 log-likelihood matrix
@@ -520,7 +535,7 @@ Monte Carlo SE of elpd_loo is 0.0.
 All Pareto k estimates are good (k &lt; 0.5).
 See help('pareto-k-diagnostic') for details.</code></pre>
 </div>
-<div class="sourceCode cell-code" id="cb34"><pre class="sourceCode r code-with-copy"><code class="sourceCode r"><span id="cb34-1"><a href="#cb34-1" aria-hidden="true" tabindex="-1"></a>loo_h</span></code><button title="Copy to Clipboard" class="code-copy-button"><i class="bi"></i></button></pre></div>
+<div class="sourceCode cell-code" id="cb38"><pre class="sourceCode r code-with-copy"><code class="sourceCode r"><span id="cb38-1"><a href="#cb38-1" aria-hidden="true" tabindex="-1"></a>loo_h</span></code><button title="Copy to Clipboard" class="code-copy-button"><i class="bi"></i></button></pre></div>
 <div class="cell-output cell-output-stdout">
 <pre><code>
 Computed from 4000 by 4459 log-likelihood matrix
@@ -535,7 +550,7 @@ Monte Carlo SE of elpd_loo is 3.6.
 All Pareto k estimates are good (k &lt; 0.5).
 See help('pareto-k-diagnostic') for details.</code></pre>
 </div>
-<div class="sourceCode cell-code" id="cb36"><pre class="sourceCode r code-with-copy"><code class="sourceCode r"><span id="cb36-1"><a href="#cb36-1" aria-hidden="true" tabindex="-1"></a>loo_p2</span></code><button title="Copy to Clipboard" class="code-copy-button"><i class="bi"></i></button></pre></div>
+<div class="sourceCode cell-code" id="cb40"><pre class="sourceCode r code-with-copy"><code class="sourceCode r"><span id="cb40-1"><a href="#cb40-1" aria-hidden="true" tabindex="-1"></a>loo_p2</span></code><button title="Copy to Clipboard" class="code-copy-button"><i class="bi"></i></button></pre></div>
 <div class="cell-output cell-output-stdout">
 <pre><code>
 Computed from 4000 by 4459 log-likelihood matrix
@@ -550,7 +565,7 @@ Monte Carlo SE of elpd_loo is 0.0.
 All Pareto k estimates are good (k &lt; 0.5).
 See help('pareto-k-diagnostic') for details.</code></pre>
 </div>
-<div class="sourceCode cell-code" id="cb38"><pre class="sourceCode r code-with-copy"><code class="sourceCode r"><span id="cb38-1"><a href="#cb38-1" aria-hidden="true" tabindex="-1"></a>loo_h2</span></code><button title="Copy to Clipboard" class="code-copy-button"><i class="bi"></i></button></pre></div>
+<div class="sourceCode cell-code" id="cb42"><pre class="sourceCode r code-with-copy"><code class="sourceCode r"><span id="cb42-1"><a href="#cb42-1" aria-hidden="true" tabindex="-1"></a>loo_h2</span></code><button title="Copy to Clipboard" class="code-copy-button"><i class="bi"></i></button></pre></div>
 <div class="cell-output cell-output-stdout">
 <pre><code>
 Computed from 4000 by 4459 log-likelihood matrix
@@ -565,7 +580,7 @@ Monte Carlo SE of elpd_loo is 0.1.
 All Pareto k estimates are good (k &lt; 0.5).
 See help('pareto-k-diagnostic') for details.</code></pre>
 </div>
-<div class="sourceCode cell-code" id="cb40"><pre class="sourceCode r code-with-copy"><code class="sourceCode r"><span id="cb40-1"><a href="#cb40-1" aria-hidden="true" tabindex="-1"></a><span class="fu">loo_compare</span>(loo_p, loo_h, loo_p2, loo_h2)</span></code><button title="Copy to Clipboard" class="code-copy-button"><i class="bi"></i></button></pre></div>
+<div class="sourceCode cell-code" id="cb44"><pre class="sourceCode r code-with-copy"><code class="sourceCode r"><span id="cb44-1"><a href="#cb44-1" aria-hidden="true" tabindex="-1"></a><span class="fu">loo_compare</span>(loo_p, loo_h, loo_p2, loo_h2)</span></code><button title="Copy to Clipboard" class="code-copy-button"><i class="bi"></i></button></pre></div>
 <div class="cell-output cell-output-stdout">
 <pre><code>                     elpd_diff se_diff
 hierarchical_model_2    0.0       0.0 
